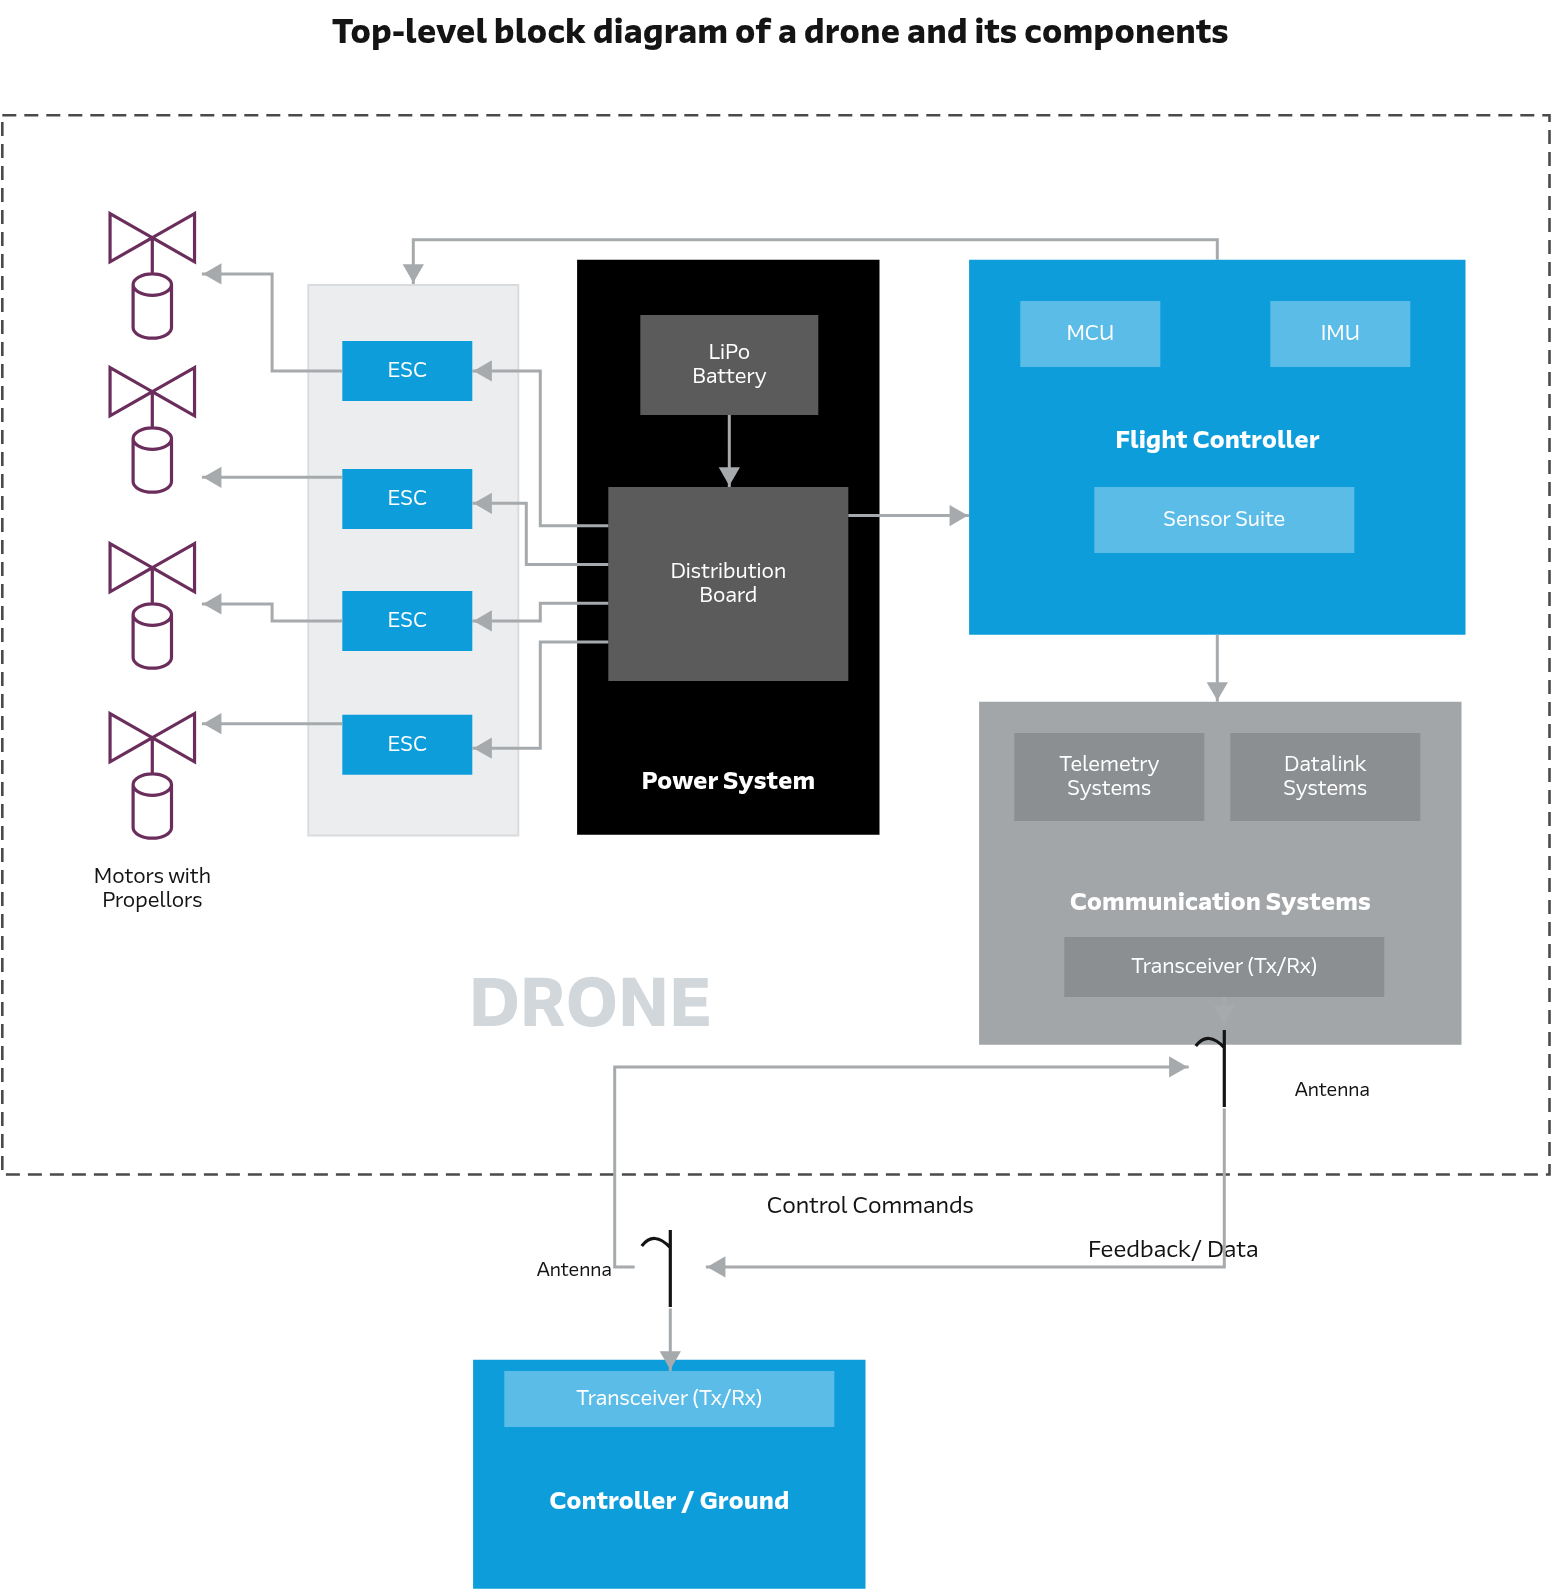
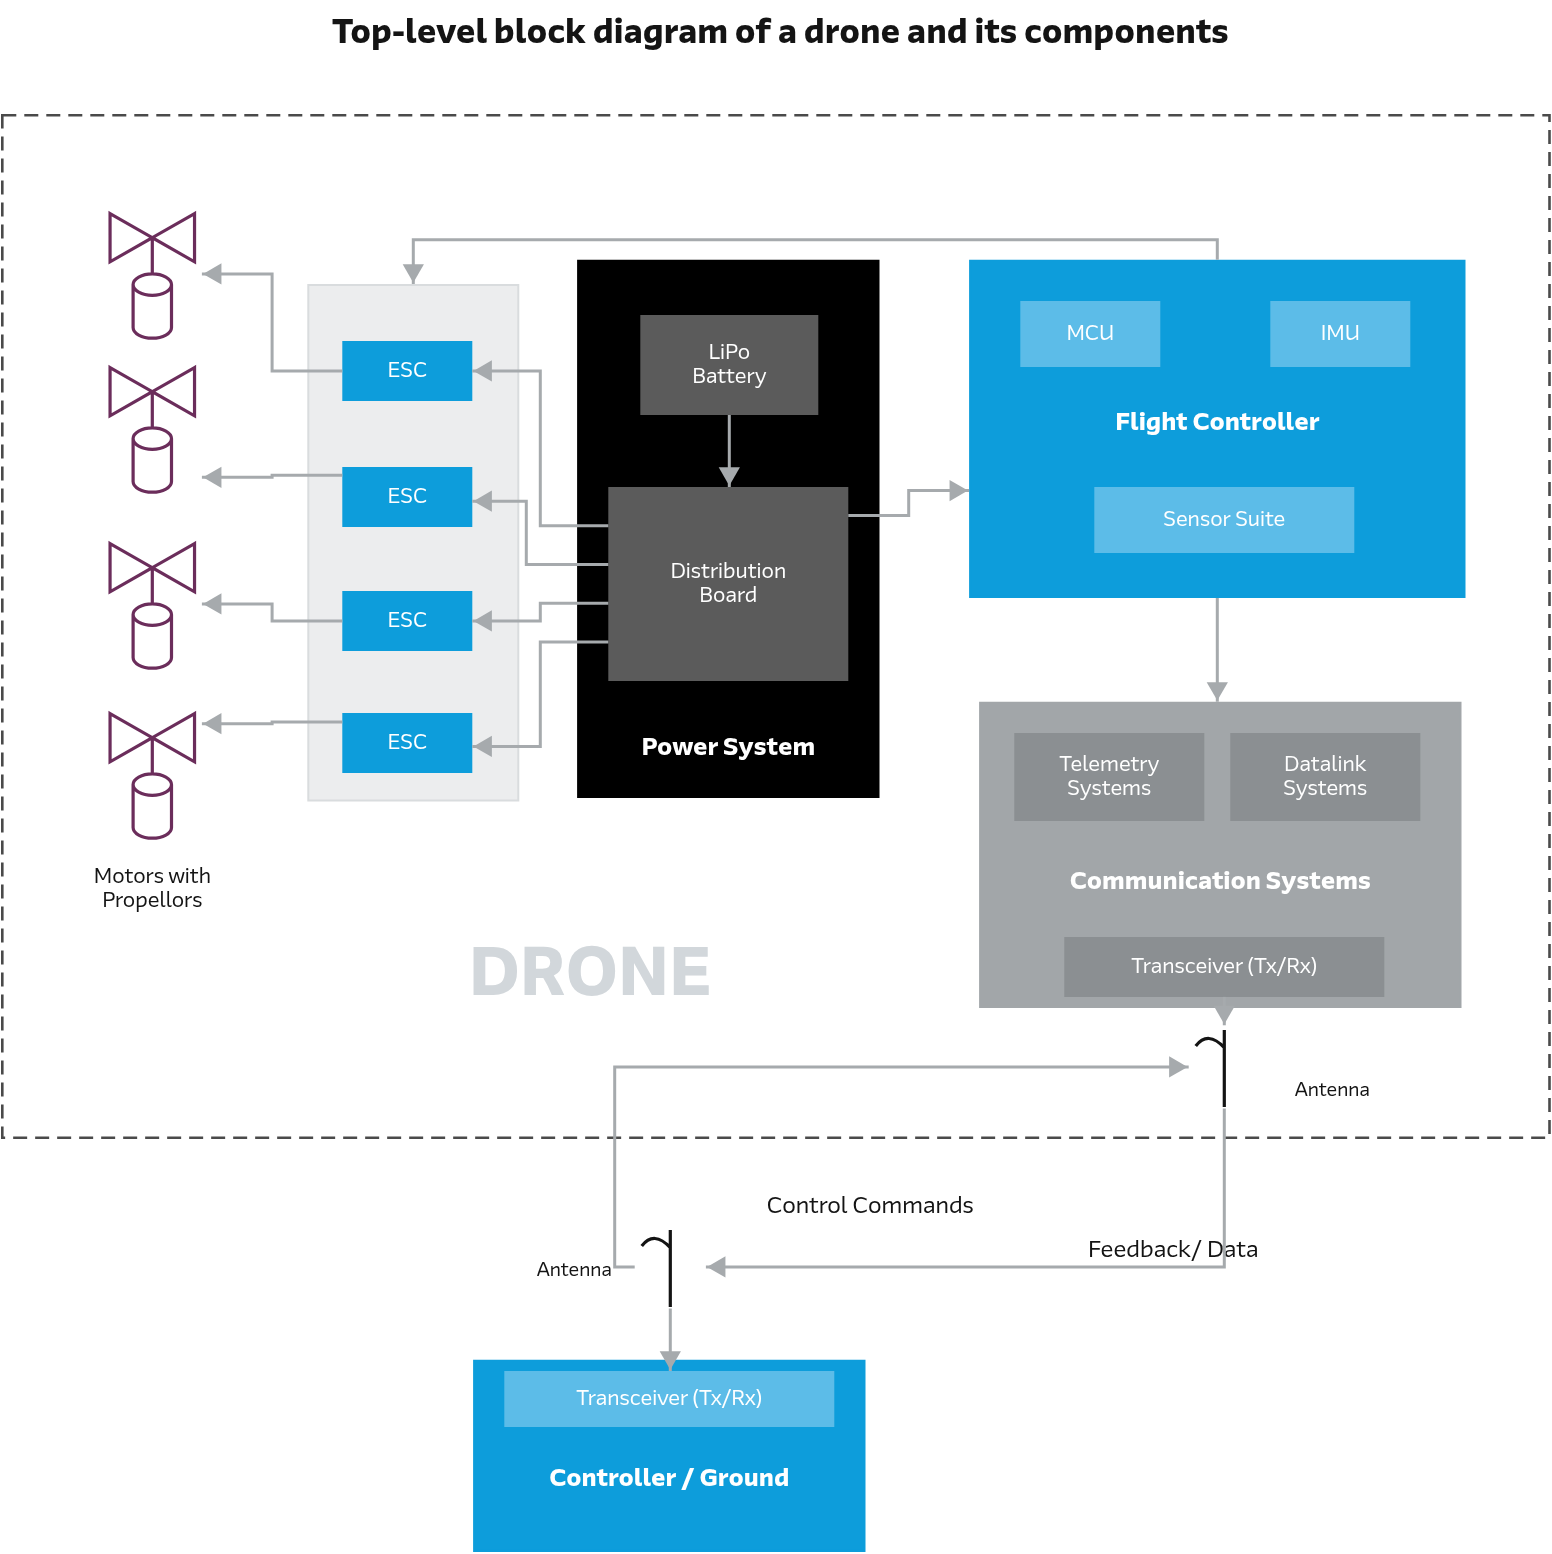
Make a block's outline and its edges its own
Three things on the canvas that were bigger than the block they belonged to.

The caption under a shape was drawn even when there was no caption. An empty
TextBlock still measures a line high, and that one hangs below the shape, so
every block's bounds ran ~19px past its own outline: the selection outline sat
below the box, and a container hugging its members left a strip of nothing
under the last one. It is hidden until there is a caption to show.

The four connection rails were a fixed 14px. On a small box that is the whole
box — a 16px part row was covered end to end by its own top and bottom rails,
which is the blue frame with no middle, and a press anywhere on it started a
wire instead of picking the row up. Each rail is now a share of the side it
crosses, measured off the body as the pointer arrives, so a rail can be thin
and the middle of a block stays the block's.

Insert > Container gave a 63x60 stub at the origin, not the 320x220 it asked
for: a container is sized by its members and an empty one has none. It carries
a floor instead, which is a size a container can honour, and Container style
now has Width and Height that write it. Drop blocks in and it still grows.

The six reference drawings are re-rendered: same drawing, with the phantom
strip gone from under each container, so each picture is ~19px shorter.
Verified in the browser — 13 checks over the outline, the rails, dragging a
200x16 row, and a new container — and the drag, gap, text-tab and label suites
[…]

diff --git a/diagram-poc/frontend/src/app/features/gojs-editor/gojs-templates.ts b/diagram-poc/frontend/src/app/features/gojs-editor/gojs-templates.ts
@@ -36,6 +36,40 @@ function backwardArrow(name: string): string {
 /** The margin the rich stack sits in, and so the padding a block needs for it. */
 const RICH_MARGIN = 6;
 
+/** The thickest an edge rail is ever drawn, and which side it crosses. */
+const RAIL_MAX = 14;
+const RAIL_DIR = '_rail';
+
+/**
+ * Fit a block's connection rails to the block.
+ *
+ * A rail spans a whole edge so that several wires leaving one side can spread
+ * out along it, and at a fixed 14px that is most of a small block: a part row
+ * 16px tall was covered end to end by its own top and bottom rails, so it read
+ * as a blue frame with no middle and a press anywhere on it started a wire
+ * instead of picking the row up. Each rail is now a share of the side it
+ * crosses — a rail can be thin, but the middle of a block always stays the
+ * block's own.
+ *
+ * Called as the pointer enters a block, which is the last moment its size is
+ * known and always before anything can be pressed on it.
+ */
+export function fitPorts(node: go.Node): void {
+  // The body, not the node: a node is as tall as its caption hanging below it,
+  // and the rails belong to the box.
+  const b = (node.findPort('') ?? node).actualBounds;
+  const want = (across: number) => Math.max(3, Math.min(RAIL_MAX, across * 0.18));
+  node.ports.each((p) => {
+    const dir = (p as unknown as Record<string, unknown>)[RAIL_DIR];
+    if (dir !== 'v' && dir !== 'h') return;
+    const vertical = dir === 'v';
+    const t = want(vertical ? b.width : b.height);
+    const now = vertical ? p.desiredSize.width : p.desiredSize.height;
+    if (Math.abs(now - t) < 0.5) return;
+    p.desiredSize = vertical ? new go.Size(t, NaN) : new go.Size(NaN, t);
+  });
+}
+
 /** A formatted label, wrapped into the rows the canvas will draw. */
 function richLayout(d: go.ObjectData): DrawnLine[] {
   return layoutRich(
@@ -144,9 +178,11 @@ export function buildTemplates(diagram: go.Diagram, $: typeof go.GraphObject.mak
       go.Shape, 'RoundedRectangle',
       {
         parameter1: 4, fill: 'rgba(34,211,238,0.30)', stroke: '#22d3ee', strokeWidth: 1,
-        // 14px, not 9: this is the grab target for starting a wire, and a
-        // 9px stripe is a fiddly thing to hit on a first attempt.
-        desiredSize: vertical ? new go.Size(14, NaN) : new go.Size(NaN, 14),
+        // RAIL_MAX, not 9: this is the grab target for starting a wire, and a
+        // 9px stripe is a fiddly thing to hit on a first attempt. It is a
+        // ceiling rather than a constant — see `fitPorts`.
+        desiredSize: vertical ? new go.Size(RAIL_MAX, NaN) : new go.Size(NaN, RAIL_MAX),
+        [RAIL_DIR]: vertical ? 'v' : 'h',
         stretch: vertical ? go.GraphObject.Vertical : go.GraphObject.Horizontal,
         // `alignmentFocus: spot` keeps the rail wholly inside the block, with its
         // outer edge on the outline. Centred on the outline it straddled it, and
@@ -397,7 +433,11 @@ export function buildTemplates(diagram: go.Diagram, $: typeof go.GraphObject.mak
           $(go.TextBlock, { font: '700 9px Roboto, sans-serif', stroke: '#1a1303', margin: new go.Margin(1, 5, 1, 5) },
             new go.Binding('text', 'components',
               (c) => !Array.isArray(c) || !c.length ? '' : (c.length === 1 ? c[0].partNumber : c.length + ' parts'))))),
-      $(go.TextBlock, { alignment: new go.Spot(0.5, 1, 0, 7), alignmentFocus: go.Spot.Top,
+      // Hidden until there is a caption to show. An empty TextBlock still
+      // measures a line high, and this one hangs below the shape, so leaving it
+      // on stretched every block's bounds ~19px past its own outline — which is
+      // what put the selection outline and the hover markers off the box.
+      $(go.TextBlock, { alignment: new go.Spot(0.5, 1, 0, 7), alignmentFocus: go.Spot.Top, visible: false,
         font: '10.5px Roboto, sans-serif', stroke: '#94a3b8', editable: true, textAlign: 'center', maxSize: new go.Size(170, NaN) },
         new go.Binding('text', 'sub').makeTwoWay(),
         new go.Binding('stroke', 'capColor'),
@@ -713,6 +753,11 @@ export function buildTemplates(diagram: go.Diagram, $: typeof go.GraphObject.mak
           new go.Binding('fill', 'fill'),
           new go.Binding('stroke', 'stroke'),
           new go.Binding('strokeWidth', 'borderWidth'),
+          // A container is sized by what is inside it, which leaves one you
+          // have just drawn — and so has nothing inside — a box too small to
+          // aim at. A floor gives it a size of its own until it has members,
+          // and is what the Width and Height fields write.
+          new go.Binding('minSize', 'minSize', go.Size.parse),
           // Only an explicit `dashed: false` makes the border solid, so an
           // existing group with no styling data keeps its dashed look.
           new go.Binding('strokeDashArray', 'dashed', (v) => (v === false ? null : [7, 4]))),

diff --git a/diagram-poc/frontend/src/app/features/gojs-editor/gojs-editor.component.ts b/diagram-poc/frontend/src/app/features/gojs-editor/gojs-editor.component.ts
@@ -63,7 +63,7 @@ import { ConfirmDialogComponent } from '../../shared/components/confirm-dialog/c
 import { Command, CommandPaletteComponent } from '../../shared/components/command-palette/command-palette.component';
 import { WireGeometry } from './gojs-wire-geometry';
 import { Pin, PinMove, pinSide, spaced, spotOn } from './gojs-pins';
-import { buildTemplates } from './gojs-templates';
+import { buildTemplates, fitPorts } from './gojs-templates';
 import { LabelDragTool } from './gojs-label-drag';
 import { DEFAULT_WIRE_STYLE, WireDockComponent, WireProp } from '../editor/components/wire-dock/wire-dock.component';
 import { PropertiesPanelComponent, StyleChange, TextChange } from '../editor/components/properties-panel/properties-panel.component';
@@ -599,6 +599,9 @@ export class GojsEditorComponent implements OnInit, AfterViewInit, OnDestroy {
   private hoverPorts(obj: go.GraphObject, on: boolean): void {
     const node = obj.part;
     if (!(node instanceof go.Node)) return;
+    // Size the rails to the block first: this runs as the pointer arrives, so
+    // it is both what the user sees and what they are about to press on.
+    if (on) fitPorts(node);
     if (on && !this.pinsForced) node.ports.each((p) => { if (p.portId) p.opacity = 1; });
     else this.resetPins(node);
   }
@@ -1238,8 +1241,11 @@ export class GojsEditorComponent implements OnInit, AfterViewInit, OnDestroy {
    * includes the label overhang and the border, so a 160x70 block reports as
    * 173x96 and typing that number back in quietly grows it.
    */
+  /** Which field carries a node's size. A container has no size of its own —
+   *  it sits where its members are — so for one the number is a floor. */
+  private get sizeProp(): 'size' | 'minSize' { return this.isContainer ? 'minSize' : 'size'; }
   private sizeField(i: 0 | 1): number | null {
-    const s = String(this.selectedNode?.data?.size ?? '').split(' ');
+    const s = String(this.selectedNode?.data?.[this.sizeProp] ?? '').split(' ');
     const v = Number(s[i]);
     return s.length === 2 && isFinite(v) ? Math.round(v) : null;
   }
@@ -1247,13 +1253,14 @@ export class GojsEditorComponent implements OnInit, AfterViewInit, OnDestroy {
   get nodeH(): number { return this.sizeField(1) ?? Math.round(this.selectedNode?.actualBounds?.height ?? 0); }
   setNodeSize(which: 'w' | 'h', v: any): void {
     const n = this.selectedNode; if (!n) return;
+    const prop = this.sizeProp;
     const px = Math.max(8, Number(v) || 0);
-    const cur = go.Size.parse(String(n.data.size ?? `${this.nodeW} ${this.nodeH}`));
+    const cur = go.Size.parse(String(n.data[prop] ?? `${this.nodeW} ${this.nodeH}`));
     const size = which === 'w' ? new go.Size(px, cur.height || this.nodeH) : new go.Size(cur.width || this.nodeW, px);
-    this.setField('size', go.Size.stringify(size));
+    this.setField(prop, go.Size.stringify(size));
     // An imported drawing opts out of the palette's 48x40 floor; a hand-drawn
     // one has to as well, or a deliberately small block springs back.
-    if (!n.data.minSize) this.setField('minSize', '1 1');
+    if (prop === 'size' && !n.data.minSize) this.setField('minSize', '1 1');
   }
 
   // ---- container (group) controls ----
@@ -1522,9 +1529,12 @@ export class GojsEditorComponent implements OnInit, AfterViewInit, OnDestroy {
       return;
     }
     const c = d.viewportBounds.center;
+    // `minSize`, not `size`: a container is sized by its members, so a size is
+    // something it cannot honour and an empty one came out a 63x60 stub at the
+    // origin. A floor it can honour, and it gives way as blocks are dropped in.
     this.zone.runOutsideAngular(() => d.model.commit((m) => {
       m.addNodeData({ key: undefined, isGroup: true, text: 'Container',
-                      loc: go.Point.stringify(c), size: '320 220' });
+                      loc: go.Point.stringify(c), minSize: '320 220' });
     }, 'add container'));
     const made = d.findNodeForKey((d.model as go.GraphLinksModel).nodeDataArray.slice(-1)[0]?.['key']);
     if (made) d.select(made);

diff --git a/diagram-poc/frontend/src/app/features/editor/components/block-style-panel/block-style-panel.component.html b/diagram-poc/frontend/src/app/features/editor/components/block-style-panel/block-style-panel.component.html
@@ -80,6 +80,13 @@
       <label class="wide"><span>Band width</span>
         <input type="number" min="0" max="600" step="2" placeholder="auto"
                [ngModel]="titleBandWidth" (ngModelChange)="style.emit({ prop: 'titleBandWidth', value: $event })" /></label>
+      <!-- A container has no size of its own — it sits where its members are —
+           so these are the smallest it may be drawn, which is also the size of
+           one with nothing in it yet. -->
+      <label><span>Width</span>
+        <input type="number" min="8" [ngModel]="width" (ngModelChange)="style.emit({ prop: 'width', value: $event })" /></label>
+      <label><span>Height</span>
+        <input type="number" min="8" [ngModel]="height" (ngModelChange)="style.emit({ prop: 'height', value: $event })" /></label>
     </div>
     <div class="pin-hint">Or hold <b>Alt</b> and drag the title on the canvas to put it anywhere
       inside the container.</div>

diff --git a/diagram-poc/samples/drone/render-harness.html b/diagram-poc/samples/drone/render-harness.html
@@ -280,7 +280,10 @@ window.buildDiagram = function(modelJson, geo) {
         new go.Binding('defaultAlignment','',richAlignment),
         new go.Binding('itemArray','',richItems),
         ...placeable('labelSpot'))),
-    $(go.TextBlock,{ alignment:new go.Spot(0.5,1,0,7), alignmentFocus:go.Spot.Top,
+    // Off until there is a caption: an empty TextBlock still measures a line
+    // high, and this one hangs below the shape, so it stretched every block's
+    // bounds past its own outline.
+    $(go.TextBlock,{ alignment:new go.Spot(0.5,1,0,7), alignmentFocus:go.Spot.Top, visible:false,
       font:'10.5px Roboto, sans-serif', stroke:'#94a3b8', textAlign:'center', maxSize:new go.Size(170,NaN) },
       new go.Binding('text','sub'),
       new go.Binding('stroke','capColor'),
